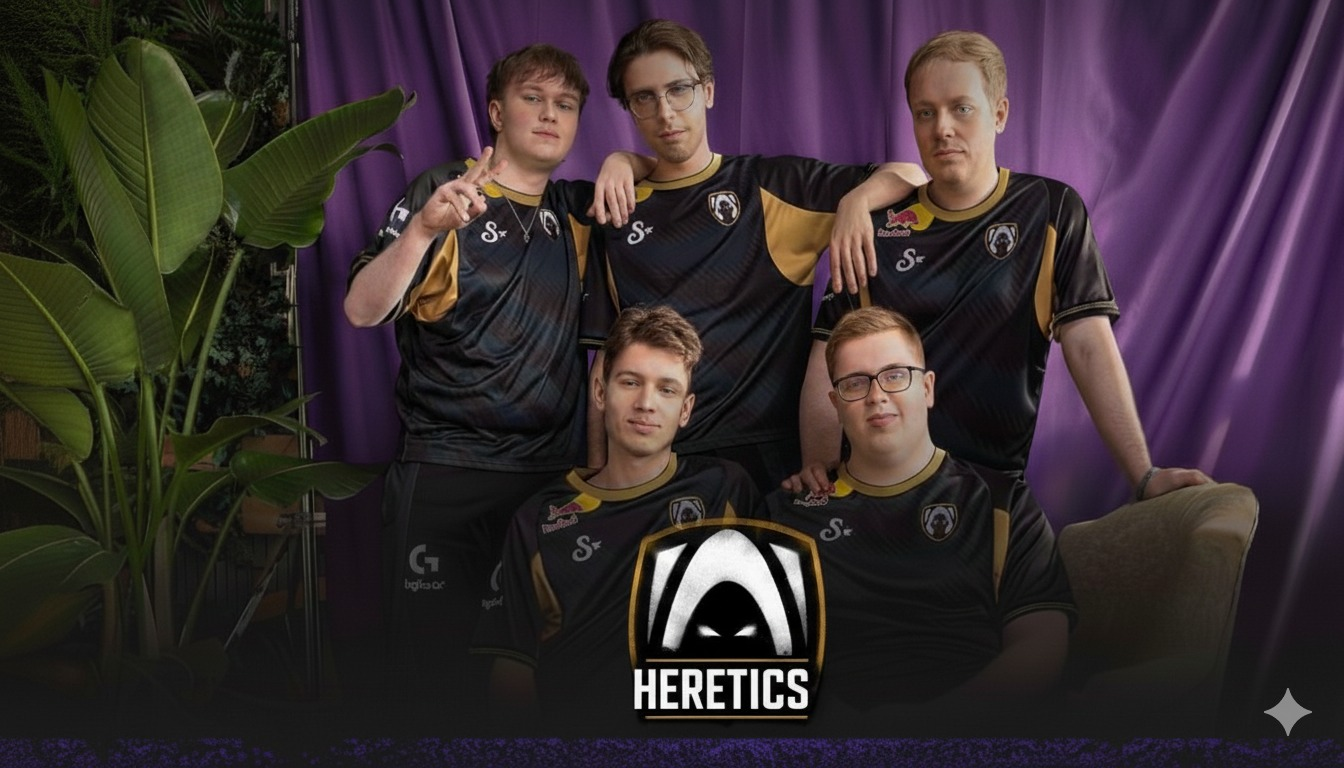
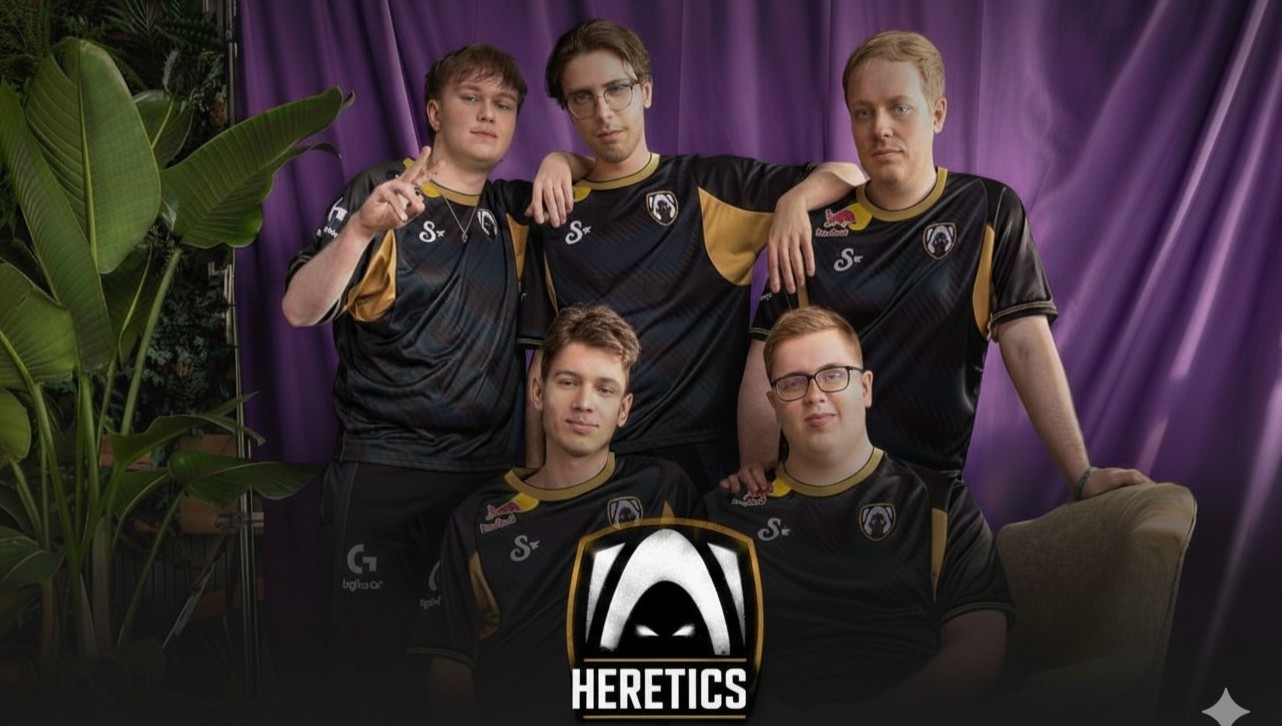
ba9i le footer

diff --git a/THE_THIRD_BRIEF/news.html b/THE_THIRD_BRIEF/news.html
@@ -10,7 +10,7 @@
     <link rel="stylesheet" href="CSS/news.css">
 </head>
 <body>
-  <header>
+  <!-- <header>
      <div class="nav">
                 <div class="title">
                     <h1>gaming area</h1>
@@ -22,37 +22,39 @@
                     <div class="nav_links"><a href="#">Contact</a></div>
                 </div>
             </div>
-  </header>
+  </header> -->
   <main>
         <div class="prinsipal">
             <img src="IMG/WhatsApp Image 2025-10-23 at 09.26.53.jpeg" alt="image prinsipal">
         </div>
             <div>
-                <h1 class="Team">Team Heretics a été éliminé du VCT Masters Madrid 2024 après deux défaites consécutives contre Sentinels et Paper Rex.</h1>
-                <p>Résultats des matchs <br>
-                Heretics 1-2 Sentinels <br> Ils ont perdu le premier round (13-9), gagné le deuxième (13-5), puis perdu le troisième <br> très serré (13-11). <br>
-                Heretics 1-2 Paper Rex <br> Ils ont gagné la première carte (13-5), mais ont perdu les deux suivantes (13-9 et 13-11). <br>
+                <h1 class="title">Team Heretics a été éliminé du VCT Masters Madrid 2024 après deux défaites consécutives contre Sentinels et Paper Rex.</h1>
+                <p class="Text"> <strong>Résultats des matchs</strong>  <br>
+                Heretics <mark>1-2</mark>  Sentinels <br> Ils ont perdu le premier round (13-9), <br> gagné le deuxième (13-5), puis perdu <br> le troisième très serré (13-11). <br>
+                Heretics <mark>1-2</mark>  Paper Rex <br> Ils ont gagné la première carte (13-5) , mais ont perdu les deux suivantes (13-9 et 13-11). <br>
                 Performance des joueurs <br>
                 MiniBoo a réalisé une performance solide, notamment dans le match contre Paper Rex <br> où il a fait plusieurs kills décisifs. <br>
                 Benjyfishy a aussi montré un bon niveau, avec des actions importantes qui ont aidé <br> l’équipe à rester compétitive. <br>
                 Conclusion <br>
                 Même s’ils ont été éliminés assez tôt après deux défaites consécutives, <br> Team Heretics a montré un bon niveau et une belle combativité face à des équipes très fortes.</p>
             </div>
-            <section class="section_image">
-                <div>
+            <section class="section">
+                <div class="valorent">
                     <img src="IMG/mandatory-valorant-esport-teams-playoffs-masters-shanghai-1024x366.webp" alt="image valorant">
-                    <p>Si tu veux, je peux te partager des liens vers des highlights ou des vidéos des matchs !
+                    <div>
+                        <p class="p_vedeo">Si tu veux, je peux te partager des liens vers des highlights ou des vidéos des matchs !
                     Tu veux plus d’infos sur un match en particulier ?</p>
+                    </div>  
                 </div>
-                <div>
+                <div class="vedeo">
                     <img src="IMG/This is Los Niños Playground︱Team Heretics Masters Madrid.gif">
                 </div>
             </section>
-            <div>
-                <img class="Team_h" src="IMG/team-heretics-valorant-roster-cut.png" alt="Team">
+            <div class="team">
+                <img src="IMG/team-heretics-valorant-roster-cut.png" alt="Team">
             </div>
   </main>
-    <footer>
+    <!-- <footer>
         <nav>
                 <div class="logo">
                     <img class="logo_gaming" src="IMG/logo.png" alt="gaming area logo">
@@ -83,6 +85,6 @@
         <div>
             <p>© 2024 GAMING AREA.</p>
         </div>
-    </footer>
+    </footer> -->
 </body>
 </html>

diff --git a/THE_THIRD_BRIEF/CSS/news.css b/THE_THIRD_BRIEF/CSS/news.css
@@ -11,7 +11,7 @@ html {
 }
 
 body {
-  background: linear-gradient(90deg, #050509 0%, #412c61 50%, #070509 100%);
+  background: linear-gradient(360deg, #050509 0%, #412c61 50%, #070509 100%);
 }
 .prinsipal{
     width: auto;
@@ -19,44 +19,88 @@ body {
     text-align: center;
 }
 .prinsipal img{
-    width: auto;
+    width: 100%;
     height: auto;
+}
+@media  (min-width:1200px){
+  .prinsipal img{
+    height: 100vh;
+    object-fit: fill;
+  }
+}
+.title{
+  color: #d2dabf;
+  font-size: small;
+  margin-left: 10px;
+}
+.Text{
+    color: #BD9BF0;
+    font-size: 14px;
+    margin-bottom: 5px;
+    margin-left: 20px;
+    width: 90%;
+}
+.section{
+
+  justify-content: space-around;
+}
+.vedeo img{
+  width: 90%;
+  border-radius: 10px;
+  border: #270529 solid 5px;
+  margin-left: 4%;
 }
 
-.logo_gaming{
-    text-align: absolute;
-    color: rgb(225, 206, 160);
+.valorent{
+  margin-right: 20px;
+  margin-left: 20px;
+}
+.valorent img{
+  width: 100%;
+  border-radius: 30px;
+}
+.p_vedeo{
+  font-size: 9px;
+  color: rgb(79, 144, 200);
+}
+.team img{
+  margin-top: 5%;
+  border-top: #81bacd solid 4px;
+  width: 100%;
+}
+@media  (min-width:768px){
+  .title{
+    font-size: large;
+  }
+  .Text{
+    font-size: 15px;
+  }
+  .valorent img{
     margin-top: 10px;
-    margin-bottom: 10px;
-    margin-left: 30px;
+  width: 350px;
 }
-.Team_h{
-    width: auto;
-    height: auto;
-    margin-top: 50px;
-    margin-bottom: 50px;
-    margin-left: 0;
 }
-p{
-    color: #BD9BF0;
-    font-size: 20px;
-    margin-bottom: 50px;
-    margin-left: 50px;
-}
-.logo{
-    width: 100px;
-    height: 100px;
-}
-.Team{
+@media  (min-width:1200px){
+  .title{
+    font-size: 30px;
+  }
+  .Text{
+    font-size: 25px;
+  }
+  .valorent img{
+  width: 350px;
+  }
+
+  .section{
     display: flex;
-    gap: 30px;
-    justify-content: center;
-    flex-wrap: wrap;
+  }
 }
+
 /* end Body */
 
 
 /* start navbar */
+
 .nav {
   position: fixed;
   width: 100%;
